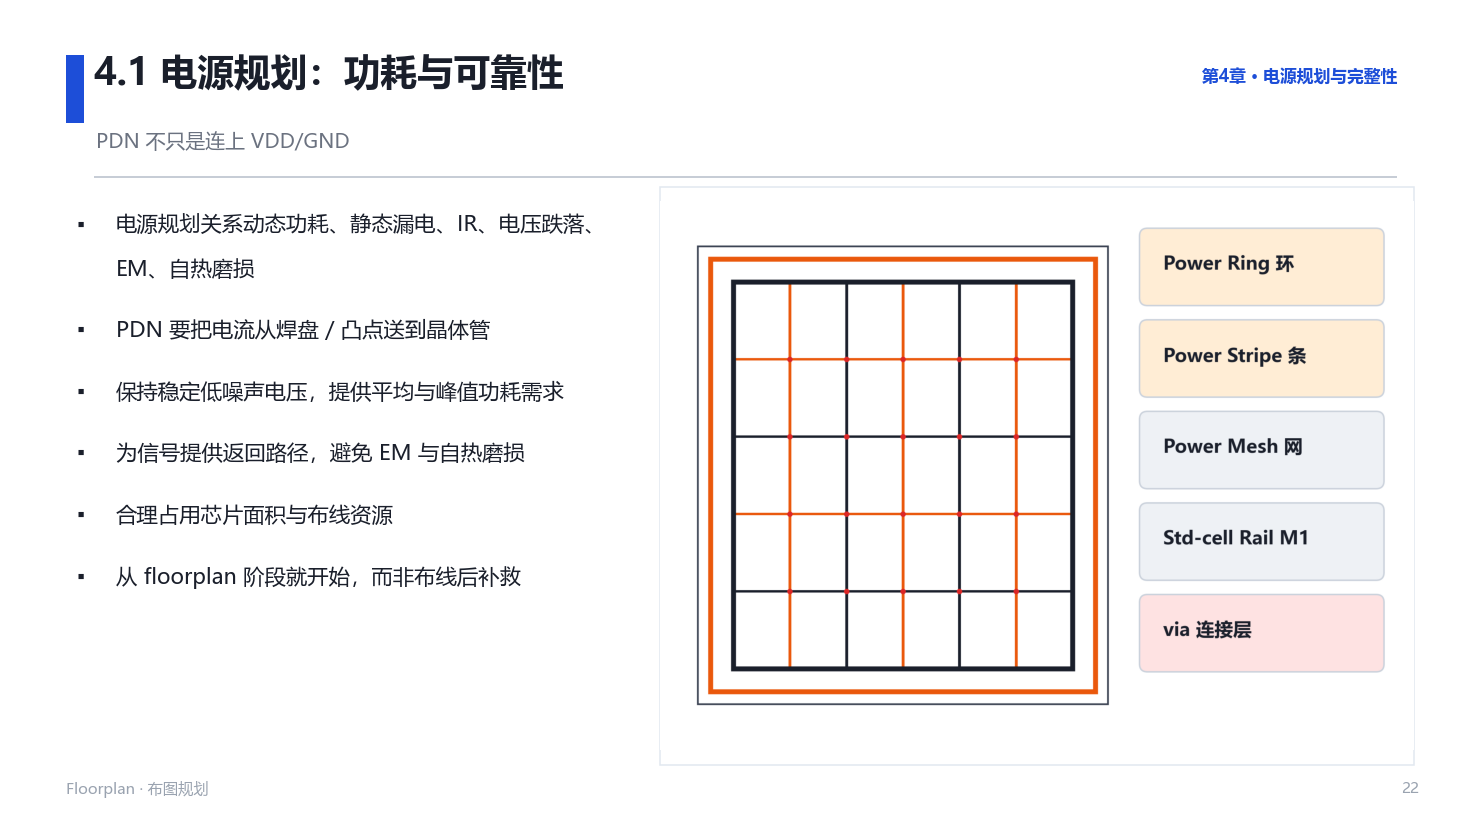
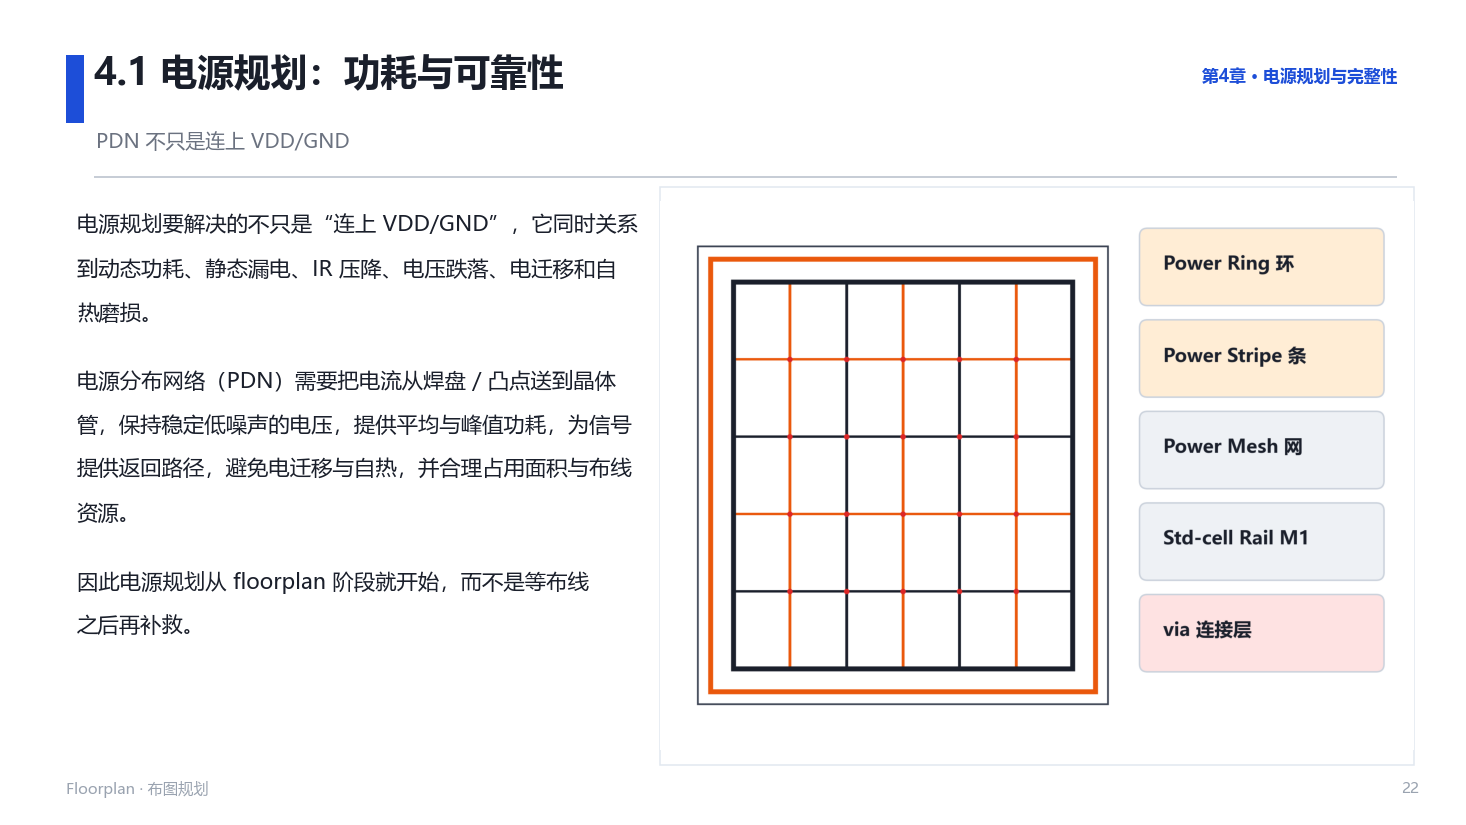
① extend prose to 2.2 / 4.1 (note-faithful paragraphs; folded genuine lists into sentences)

diff --git a/_SlideKit/notes/05_floorplan/slides.py b/_SlideKit/notes/05_floorplan/slides.py
@@ -118,13 +118,10 @@ SPECS = [
         "焊盘受限：尺寸由 IO 数量 / 焊盘间距 / 封装决定 → 优化 IO 环与协同",
     ]),
     split("2.2 利用率与试布线", "两个口径 + 必须试布线验证", "f04_util.png", [
-        "Floorplan 利用率 = 标准单元占核心区比例，常见初值约 70%",
-        "太高 → 拥塞上升、合法化 / 优化自由度不足、局部拥塞、抢 PG 资源",
-        "太低 → 浪费晶粒面积、平均互连变长",
-        "总利用率 =（Σ单元 + Σ宏）/ 核心区面积",
-        "有效利用率 = Σ单元 /（核心区 − 阻挡 − 宏留边 − 禁布区）",
-        "不能只凭利用率定尺寸：先跑试布线 / 全局布线估拥塞再决定",
-    ]),
+        "Floorplan 阶段的利用率通常指标准单元占核心区面积的比例，常见初值约 70%。",
+        "利用率太高会带来布线拥塞、合法化与优化自由度不足、引脚密集处局部拥塞，以及电源网格与信号抢资源；太低则浪费面积、拉长平均互连。",
+        "工程上要区分总利用率（含宏）与有效利用率（扣除阻挡、宏留边、禁布区）；但不能只凭利用率定尺寸——完成初始估算后还要跑试布线或全局布线估拥塞，再决定是否放大核心、调综合、移宏或改引脚。",
+    ], style="prose"),
     split("2.3 网表唯一化", "物理实现前每个子模块只引用一次", "f16_uniquify.png", [
         "进入物理域前，网表必须唯一化——每个子模块只被引用一次。这是因为物理优化要按实例独立移动、插缓冲器、做优化。",
         "如果两个实例共享同一个模块定义，工具想优化 m1/u1 时就可能同时改变 m2/u1，物理优化边界不清晰。",
@@ -191,13 +188,10 @@ SPECS = [
             ["4.1 电源规划：功耗与可靠性", "4.2 IR 压降", "4.3 电迁移 EM", "4.4 PDN 的基本取舍",
              "4.5 电源 / 地布线方式", "4.6 电源网格创建", "4.7 电源网格与宏摆放"]),
     split("4.1 电源规划：功耗与可靠性", "PDN 不只是连上 VDD/GND", "f08_power.png", [
-        "电源规划关系动态功耗、静态漏电、IR、电压跌落、EM、自热磨损",
-        "PDN 要把电流从焊盘 / 凸点送到晶体管",
-        "保持稳定低噪声电压，提供平均与峰值功耗需求",
-        "为信号提供返回路径，避免 EM 与自热磨损",
-        "合理占用芯片面积与布线资源",
-        "从 floorplan 阶段就开始，而非布线后补救",
-    ]),
+        "电源规划要解决的不只是“连上 VDD/GND”，它同时关系到动态功耗、静态漏电、IR 压降、电压跌落、电迁移和自热磨损。",
+        "电源分布网络（PDN）需要把电流从焊盘 / 凸点送到晶体管，保持稳定低噪声的电压，提供平均与峰值功耗，为信号提供返回路径，避免电迁移与自热，并合理占用面积与布线资源。",
+        "因此电源规划从 floorplan 阶段就开始，而不是等布线之后再补救。",
+    ], style="prose"),
     split("4.2 IR 压降", "ΔV=I·R，细长低层线扛不住", "f09_irem.png", [
         "IR 压降是供电线上的电压下降，ΔV = I·R。芯片电源网格是个巨大网络，工具建立电阻矩阵、结合每个门的平均电流，求解每个节点的电压。",
         "若实际电压低于容差下限，单元延迟会增加、时序可能失败，严重时功能错误。",